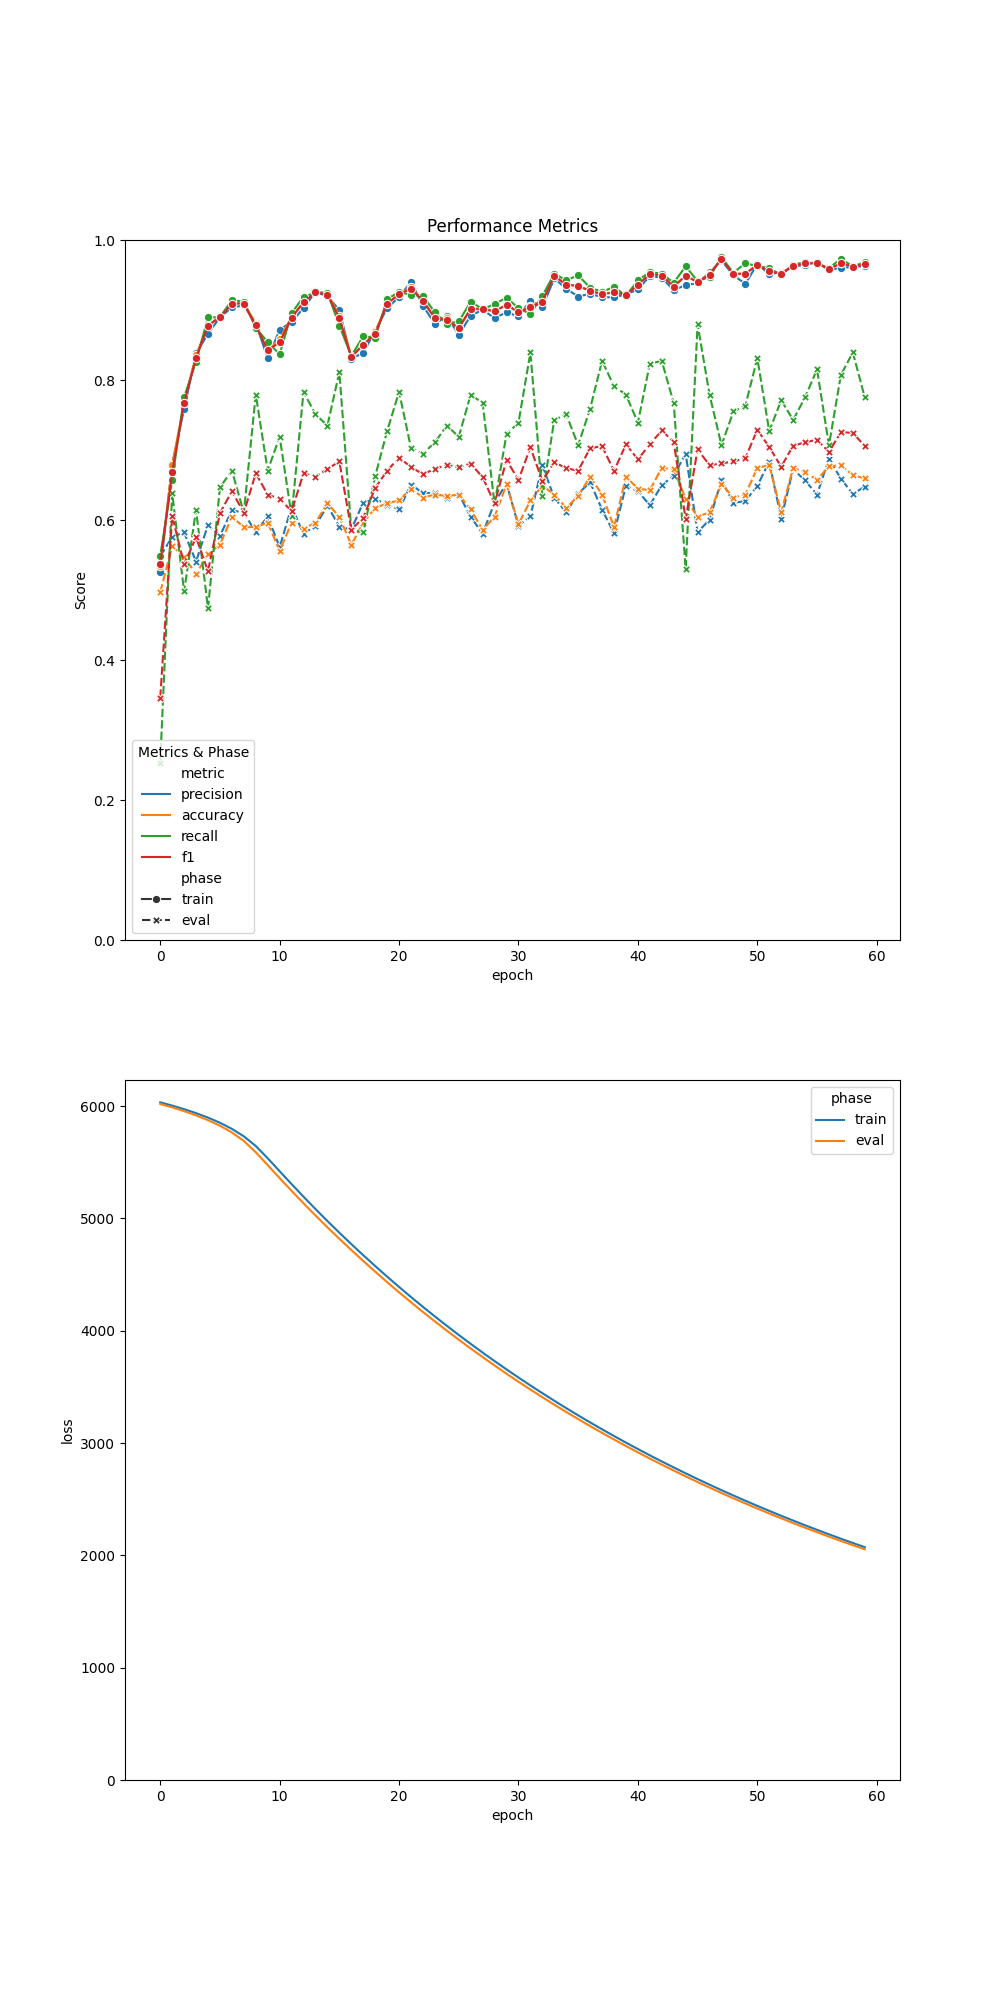
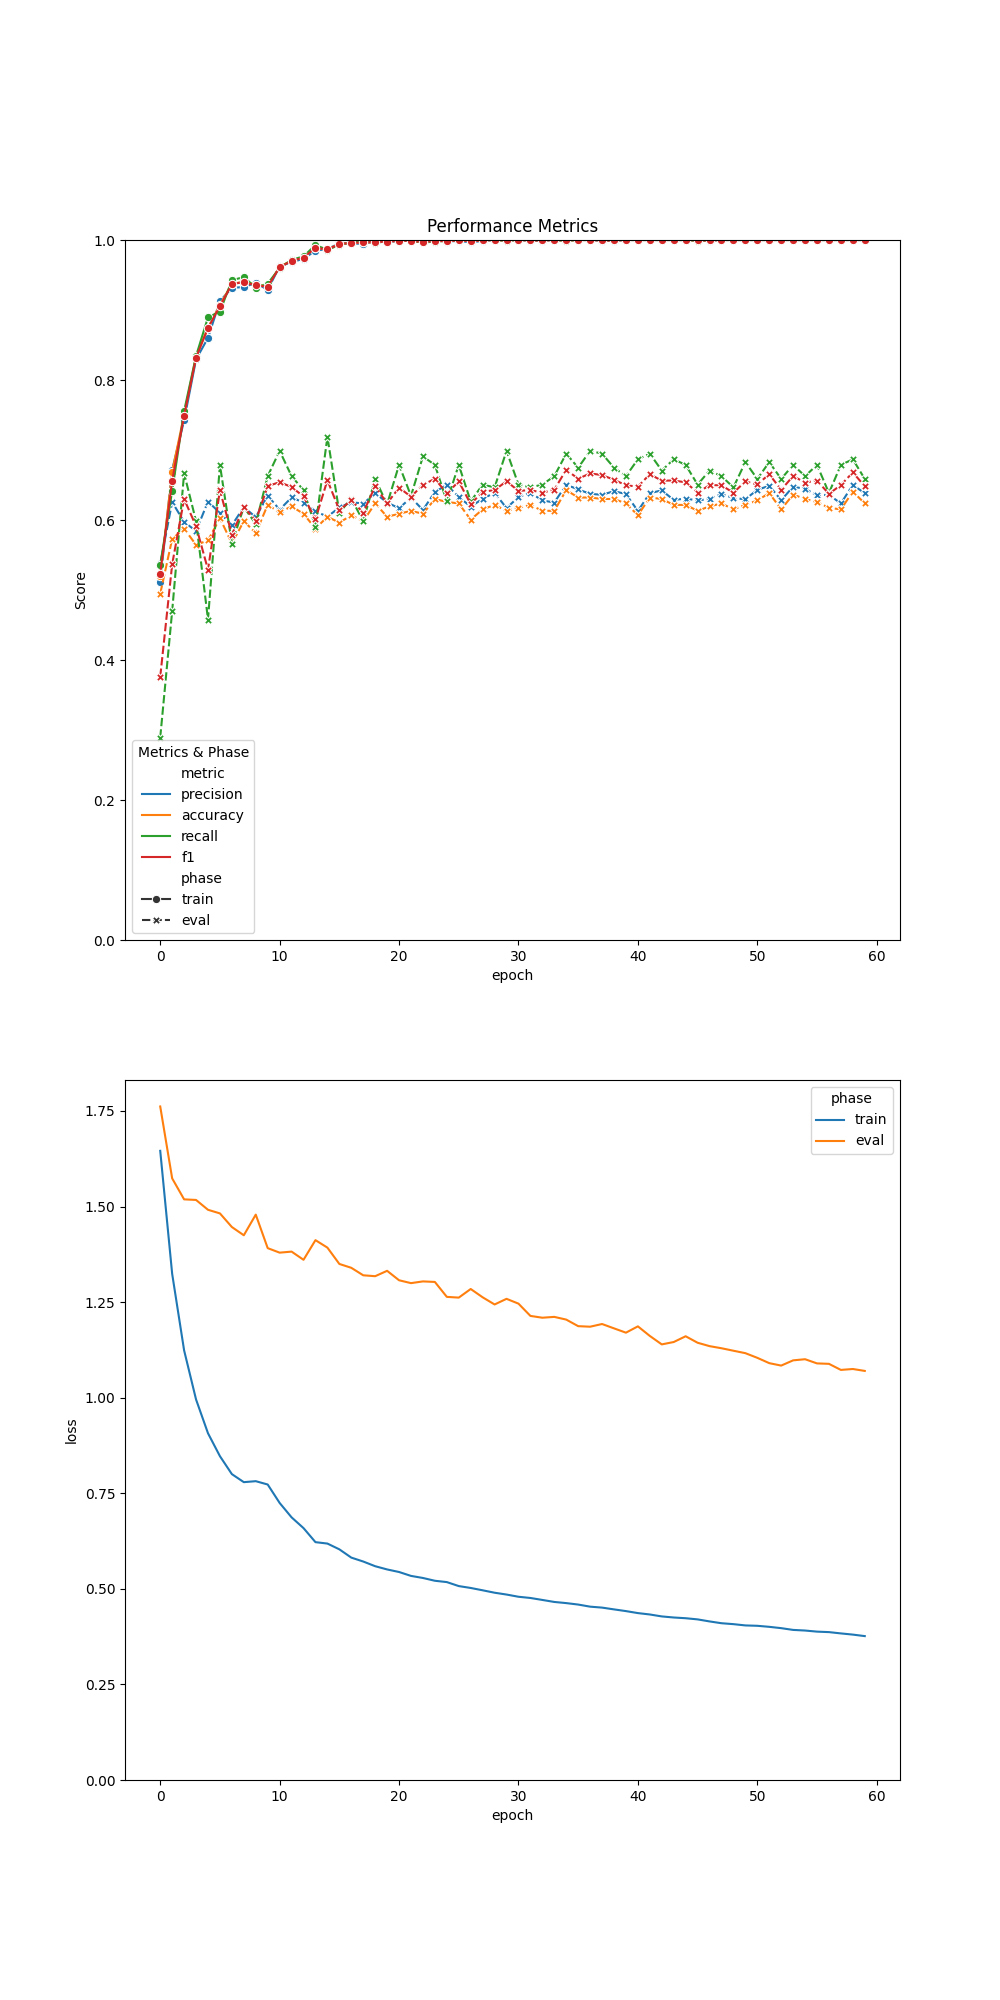
Changed regularization size

diff --git a/src/my_package/learners/paper_learner15.py b/src/my_package/learners/paper_learner15.py
@@ -9,4 +9,4 @@ class PaperLearner15(PaperLearner4):
                          encoder_linear_batch_norm=True,
                          encoder_conv_batch_norm=True,
                          normalize_imgs=True,
-                         l1_lambda=1e-7)
+                         l1_lambda=3e-8)
